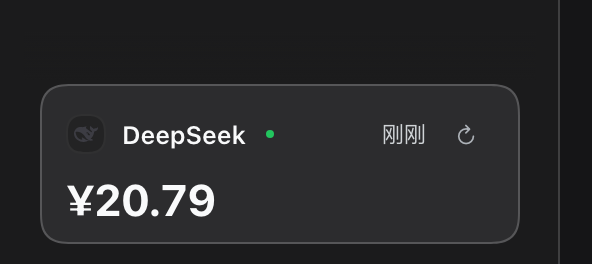
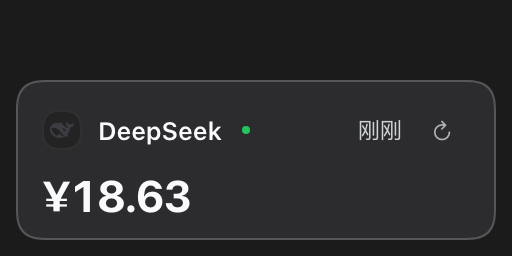
release: 1.0.3（账本重算 + 截图更新）

diff --git a/CHANGELOG.md b/CHANGELOG.md
@@ -1,5 +1,14 @@
 # Changelog
 
+## 1.0.3 — 2026-10-19
+
+### 修复
+- 账本实时记录的输入/输出/缓存字段修复后重算历史（此前实时记录 token 明细为 0，聚合少算）
+
+### 变更
+- 更新 README 截图（总览 / 弹窗 / 请求日志），与当前 UI 一致
+- 新增请求日志截图 `docs/screenshots/04-request-log.png`
+
 ## 1.0.2 — 2026-10-19
 
 ### 新增

diff --git a/README.md b/README.md
@@ -16,6 +16,8 @@
 
 ![统计面板](https://raw.githubusercontent.com/PonyDevAI/dsh-model-usage/main/docs/screenshots/03-settings.png)
 
+![请求日志](https://raw.githubusercontent.com/PonyDevAI/dsh-model-usage/main/docs/screenshots/04-request-log.png)
+
 ## 安装
 
 要求 DSH `>= 0.2.0-rc.2 < 0.3.0`。
